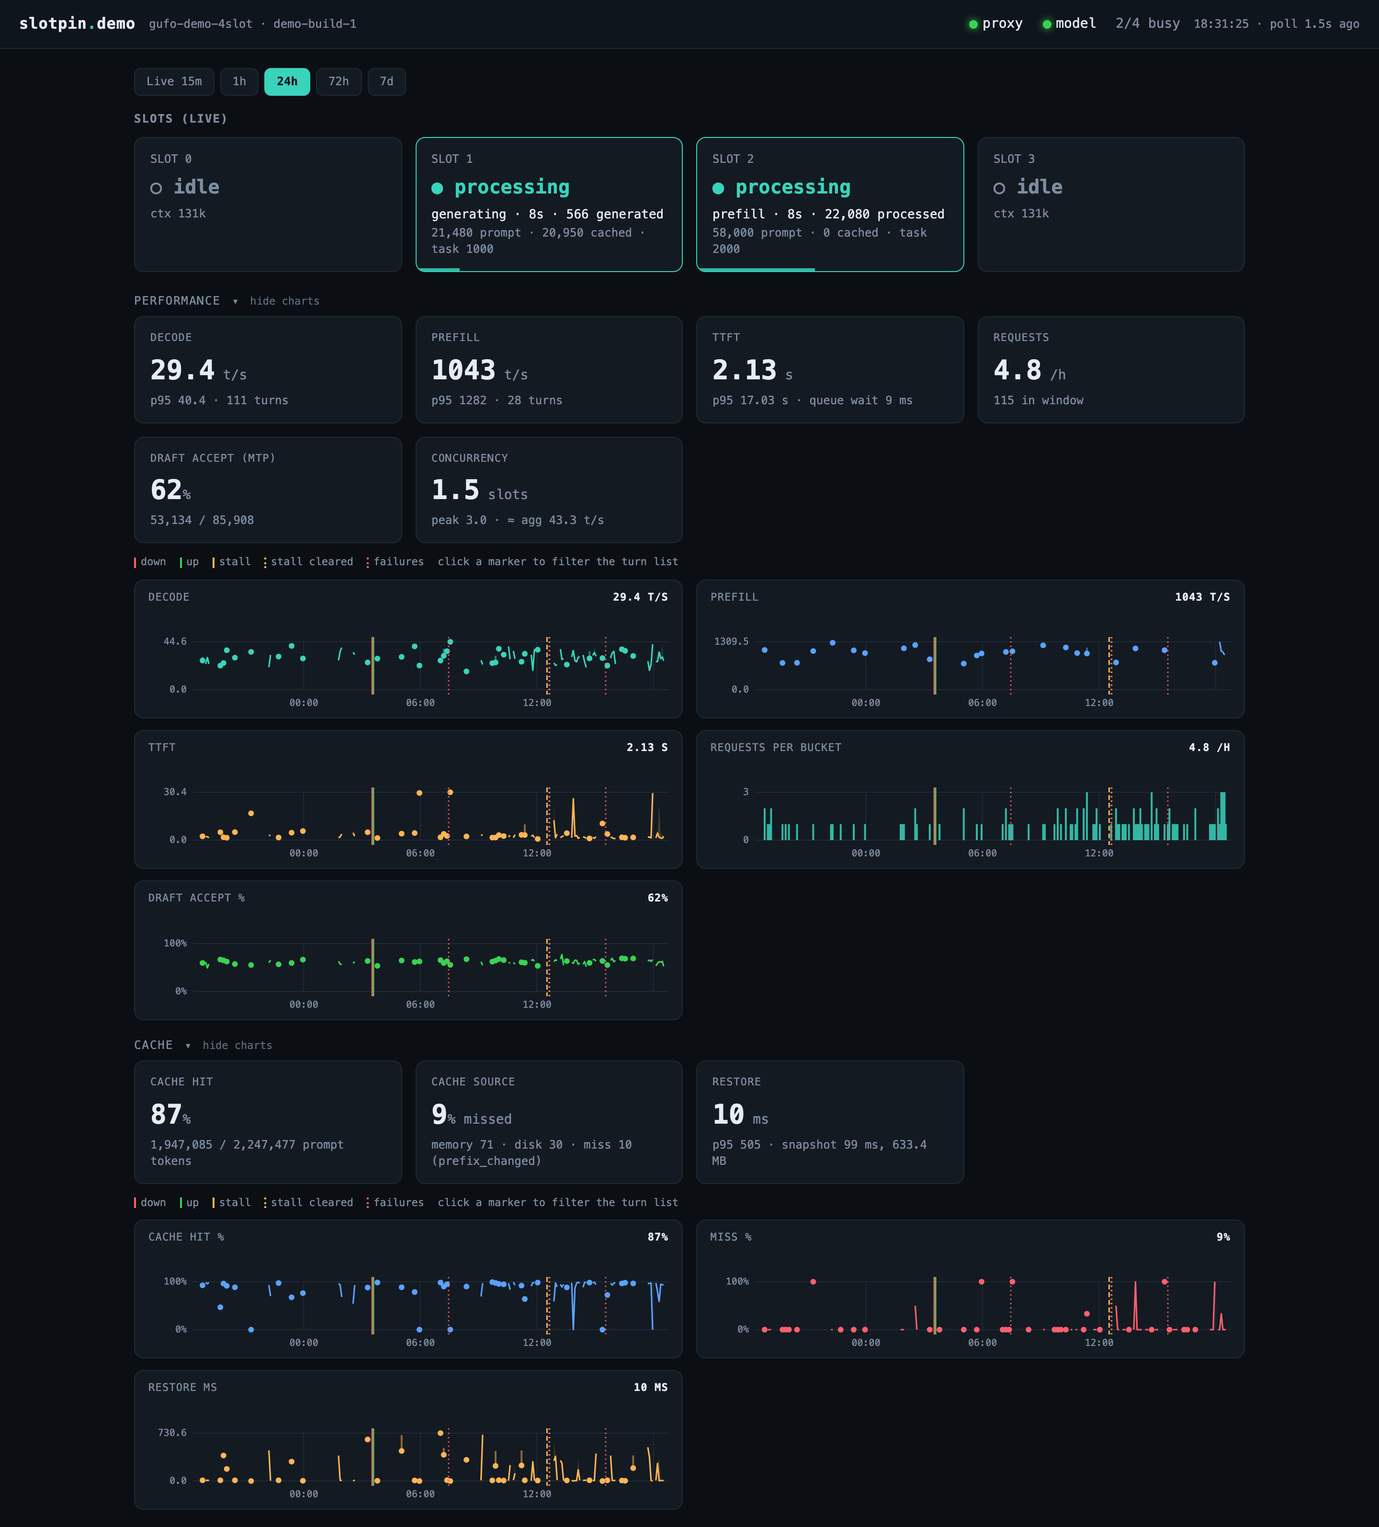
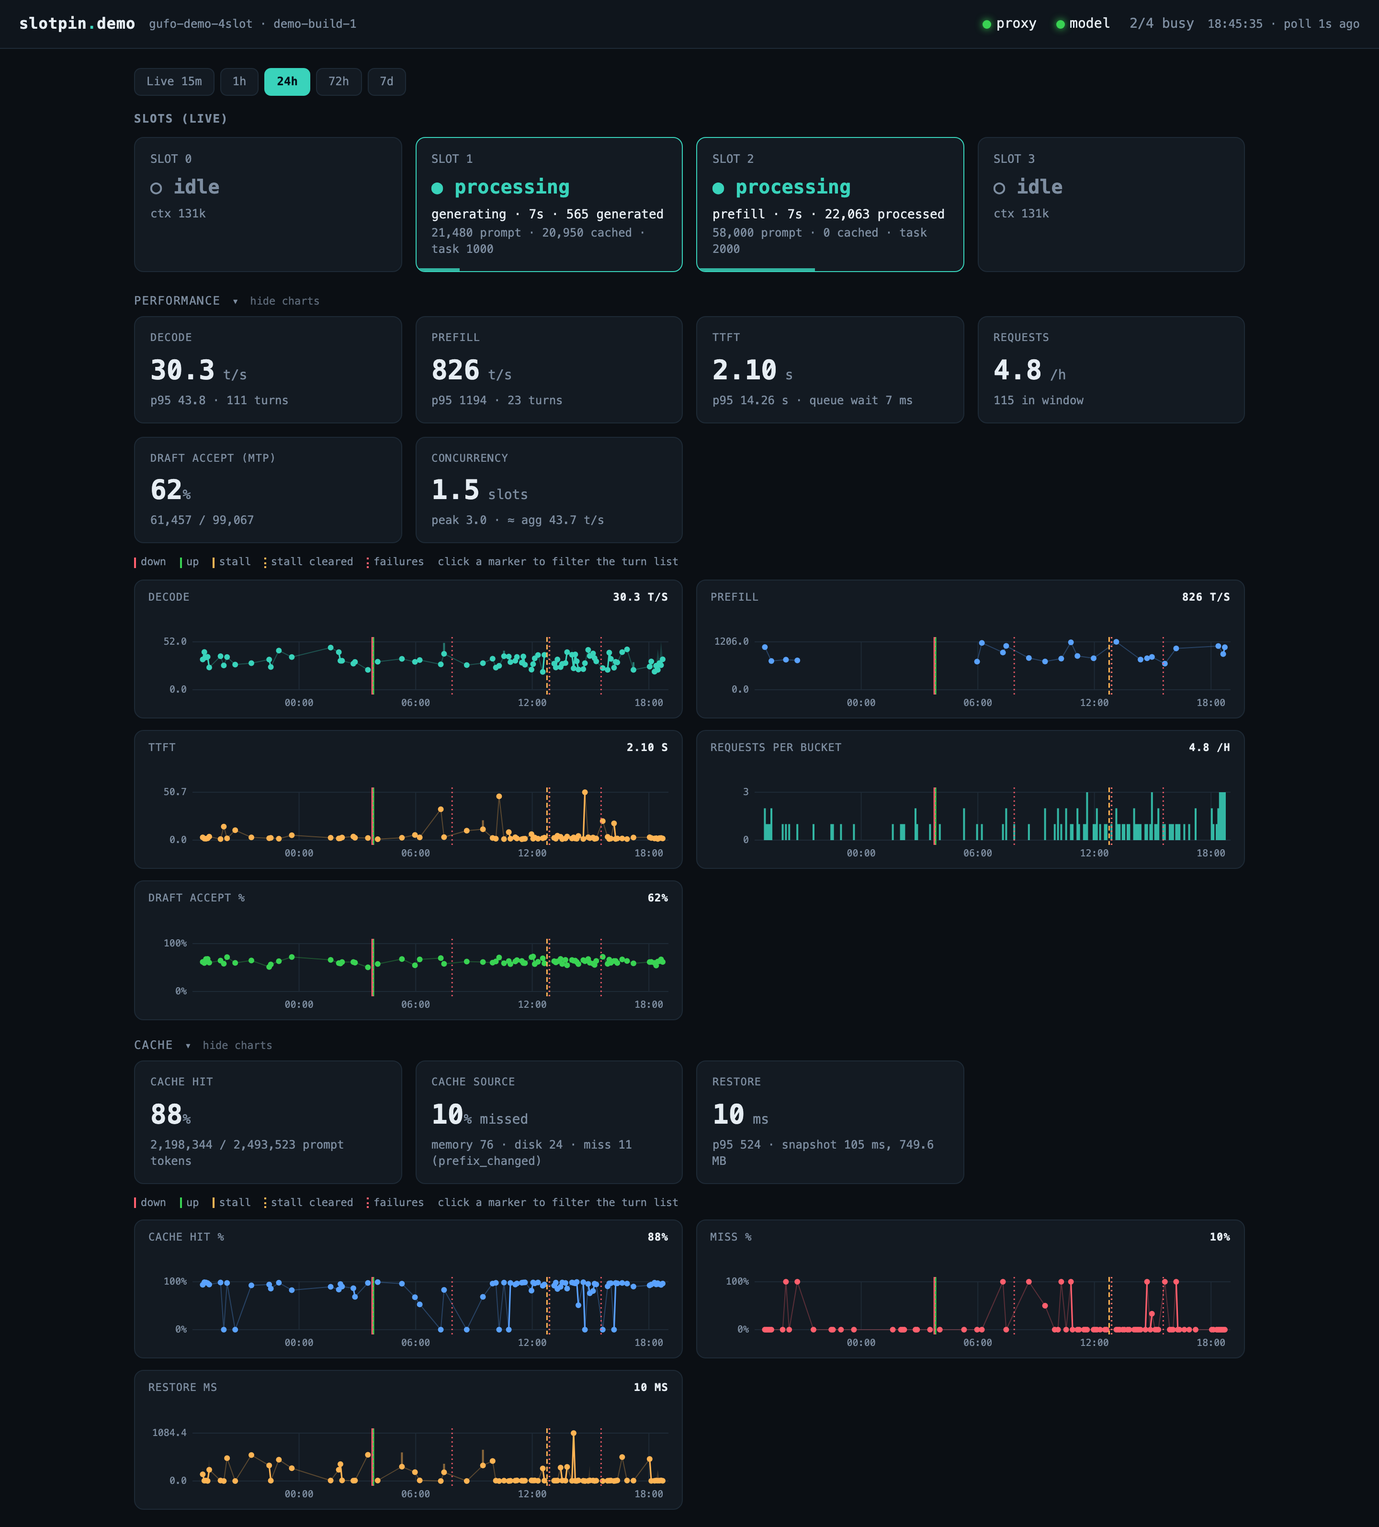
Dashboard render polish: sparse-chart connectors, phone tiles/table, Health marker

diff --git a/src/slotpin/dash.py b/src/slotpin/dash.py
@@ -2329,6 +2329,7 @@ main{padding:18px 20px;max-width:1200px;margin:0 auto}
 .ghead .gname{font-size:12px;text-transform:uppercase;letter-spacing:1px}
 .ghead .gsum{display:none}
 .ghead .gcar{font-size:11px}
+.sum-warn{color:var(--warm)}.sum-crit{color:var(--bad)}
 .ghead .ghint{font-size:11px;color:var(--dim);opacity:.7}
 .ghead:hover .gname,.ghead:hover .ghint{color:var(--fg)}
 .grp:not(.open) .chs{display:none}
@@ -2337,6 +2338,7 @@ main{padding:18px 20px;max-width:1200px;margin:0 auto}
 @media(max-width:640px){
  .ghead{padding:9px 12px;margin:0 0 8px;background:var(--panel);border:1px solid var(--line);border-radius:10px}
  .grp.tog .ghead{cursor:pointer}
+ .ghead{gap:8px}.ghead .gname{letter-spacing:.5px}
  .ghead .gsum{display:inline;color:var(--fg);font-size:12px;flex:1;white-space:nowrap;overflow:hidden;text-overflow:ellipsis}
  .ghead .ghint{display:none}
  .grp.tog:not(.open) .grid,.grp.tog:not(.open) .chs{display:none}
@@ -2348,11 +2350,11 @@ h2{font-size:12px;text-transform:uppercase;letter-spacing:1px;color:var(--dim);m
 .slots{display:grid;grid-template-columns:repeat(4,minmax(0,1fr));gap:14px;margin-bottom:22px}
 .slot{min-width:0;background:var(--panel);border:1px solid var(--line);border-radius:10px;padding:14px 16px;position:relative;overflow:hidden}
 @media(max-width:900px){.slots{grid-template-columns:repeat(2,minmax(0,1fr))}}
-@media(max-width:640px){.slots{gap:10px}.slots:not(.multi){grid-template-columns:minmax(0,1fr)}.slots.multi .slot{padding:10px 12px}}
+@media(max-width:640px){.slots.multi .slot .st{font-size:16px}.slots.multi .slot .ph{font-size:12px}.slots.multi .slot .meta{font-size:11px}.slots{gap:10px}.slots:not(.multi){grid-template-columns:minmax(0,1fr)}.slots.multi .slot{padding:10px 12px}}
 .slot .id{font-size:12px;color:var(--dim)}.slot .st{font-size:20px;font-weight:600;margin:6px 0}
 .slot.busy{border-color:var(--busy)}.slot.busy .st{color:var(--busy)}.slot.idle .st{color:var(--dim)}
 .slot .meta{font-size:12px;color:var(--dim)}
-.slot .ph{font-size:13px;margin:2px 0}
+.slot .ph{font-size:13px;margin:2px 0}.slot .st,.nw{white-space:nowrap}
 .slot.busy.warn{border-color:var(--warm)}.slot.busy.warn .st{color:var(--warm)}.slot.busy.warn .bar{background:var(--warm)}
 .slot.busy.crit{border-color:var(--bad)}.slot.busy.crit .st{color:var(--bad)}.slot.busy.crit .bar{background:var(--bad)}
 .slot .bar{position:absolute;left:0;bottom:0;height:3px;background:var(--busy)}
@@ -2403,6 +2405,18 @@ tr.x-miss td{background:rgba(74,123,216,.14)}
 tr.x-slow td{background:rgba(255,180,84,.12)}
 tr.trow:hover td{filter:brightness(1.25)}
 tr.det td{text-align:left;white-space:normal;background:var(--panel2)}
+@media(max-width:640px){
+ main{padding:14px 12px}header{padding:12px}
+ th,td{padding:5px 4px;font-size:11.5px}
+ th{font-size:9px;letter-spacing:.2px;white-space:normal;line-height:1.1;vertical-align:bottom}
+ th:first-child,td:first-child{padding-left:8px}
+ .ctag{margin-left:3px;padding:0 3px;font-size:9.5px}
+ table{table-layout:fixed;width:720px}
+ td{overflow:hidden;text-overflow:ellipsis}
+ th:nth-child(1){width:120px}th:nth-child(2){width:44px}th:nth-child(3){width:44px}th:nth-child(4){width:44px}th:nth-child(5){width:54px}th:nth-child(6){width:42px}
+ th:nth-child(n+7){width:60px}
+ tr.det td{padding:8px}
+}
 .dgrid{display:grid;grid-template-columns:repeat(auto-fill,minmax(210px,1fr));gap:6px 18px;font-size:12px}
 .dgrid span{color:var(--dim)}
 .ctag{display:inline-block;margin-left:6px;padding:0 5px;border:1px solid currentColor;border-radius:5px;font-size:10.5px;line-height:15px;vertical-align:middle}
@@ -2522,7 +2536,7 @@ function tlRow(r){
   if(failed) status='<span class="err">failed · '+esc(r.fail_reason||'unknown')+(r.upstream_status!=null?(' · '+esc(r.upstream_status)):'')+'</span>';
   else status=esc(r.served||'ok');
   const acc=(r.draft_n>0&&r.draft_n_accepted!=null)?(100*r.draft_n_accepted/r.draft_n).toFixed(0)+'%':'—';
-  let h=`<tr class="trow ${cls}" data-k="${esc(k)}"><td>${esc(fstamp(r.ts))}${tag}</td><td>${esc(r.route||'—')}</td><td>${status}</td><td>${esc(fnum(r.dur_s,1))}</td><td>${esc(r.queue_wait_ms==null?'—':fnum(r.queue_wait_ms,0)+' ms')}</td><td>${esc(fnum(r.ttft_s,2))}</td><td>${esc(fint(r.new_tokens))}</td><td>${esc(fnum(r.cached_pct,0))}</td><td>${esc(fint(r.completion_n))}</td><td>${esc(fnum(r.decode_tps,1))}</td><td>${esc(acc)}</td><td class="mono">${esc(r.stop_reason||'—')}</td></tr>`;
+  let h=`<tr class="trow ${cls}" data-k="${esc(k)}"><td>${esc(fstamp(r.ts))}${tag}</td><td class="rt" title="${esc(r.route||'')}">${esc(r.route||'—')}</td><td title="${esc(failed?('failed · '+(r.fail_reason||'unknown')):(r.served||'ok'))}">${status}</td><td>${esc(fnum(r.dur_s,1))}</td><td>${esc(r.queue_wait_ms==null?'—':fnum(r.queue_wait_ms,0)+' ms')}</td><td>${esc(fnum(r.ttft_s,2))}</td><td>${esc(fint(r.new_tokens))}</td><td>${esc(fnum(r.cached_pct,0))}</td><td>${esc(fint(r.completion_n))}</td><td>${esc(fnum(r.decode_tps,1))}</td><td>${esc(acc)}</td><td class="mono">${esc(r.stop_reason||'—')}</td></tr>`;
   if(tl.exp===k) h+=`<tr class="det"><td colspan="12">${tlDetail(r)}</td></tr>`;
   return h;
 }
@@ -2626,10 +2640,20 @@ function mkChart(o,ctx){
       g+=`<path d="${b.pts.map(p=>{const x=cx(p,b.w);return 'M'+(x-bw/2).toFixed(1)+' '+base+'V'+Y(p.v).toFixed(1)+'h'+bw.toFixed(1)+'V'+base+'Z';}).join('')}" fill="${b.col}" fill-opacity=".85"/>`;}
     o.barw=bw;
   }
+  const downs=ctx.mk.filter(m=>m.kind==='down').map(m=>m.t), maxGap=(tmax-tmin)/6;
   (o.lines||[]).forEach(s=>{
-    const dots=[];let band='',line='',whisk='';
-    runsOf(s.pts,s.w).forEach(run=>{
+    const dots=[];let band='',line='',whisk='',conn='';
+    const runs=runsOf(s.pts,s.w), sparse=s.pts.length<0.4*((tmax-tmin)/s.w);
+    // faint connector across empty buckets, but not over a gap longer than a sixth of the window
+    // or one that contains an upstream `down` event
+    for(let i=1;i<runs.length;i++){
+      const a=runs[i-1][runs[i-1].length-1], b=runs[i][0];
+      if(b.t-a.t>maxGap||downs.some(t=>t>=a.t&&t<=b.t+s.w))continue;
+      conn+='M'+cx(a,s.w).toFixed(1)+' '+Y(a.v).toFixed(1)+'L'+cx(b,s.w).toFixed(1)+' '+Y(b.v).toFixed(1);
+    }
+    runs.forEach(run=>{
       any=true;
+      if(sparse&&run.length>1)run.forEach(p=>dots.push([cx(p,s.w),Y(p.v)]));
       if(run.length<2){const p=run[0],x=cx(p,s.w);dots.push([x,Y(p.v)]);
         if(s.band&&p.v2!=null&&p.v2>p.v)whisk+='M'+x.toFixed(1)+' '+Y(p.v2).toFixed(1)+'V'+Y(p.v).toFixed(1);return;}
       line+=run.map((p,i)=>(i?'L':'M')+cx(p,s.w).toFixed(1)+' '+Y(p.v).toFixed(1)).join('');
@@ -2639,6 +2663,7 @@ function mkChart(o,ctx){
       }
     });
     const op=s.light?'.45':'1';
+    if(conn)g+=`<path class="cn" d="${conn}" stroke="${s.col}" stroke-opacity=".3" stroke-width="1" fill="none"/>`;
     if(band)g+=`<path d="${band}" fill="${s.col}" fill-opacity=".2" stroke="none"/>`;
     if(whisk)g+=`<path d="${whisk}" stroke="${s.col}" stroke-opacity=".5" stroke-width="2" fill="none"/>`;
     if(line)g+=`<path d="${line}" stroke="${s.col}" stroke-opacity="${op}" stroke-width="1.6" fill="none" stroke-linejoin="round"/>`;
@@ -2781,13 +2806,14 @@ async function refresh(){
   $('slots').className='slots'+(arr.length>1?' multi':'');
   $('slots').innerHTML=arr.map(sl=>{const busy=slotsOk&&sl.busy;
     const pct=sl.n_ctx&&sl.n_prompt?Math.min(100,100*sl.n_prompt/sl.n_ctx):0;
-    const stt=!slotsOk?'? unknown':(busy?'● processing':'○ idle');
+    const stt=!slotsOk?'? unknown':(busy?'●\u00a0processing':'○\u00a0idle');
     let sev='';
     if(busy&&stT&&sl.stall_s!=null){ sev=sl.stall_s>=stT?' crit':(sl.stall_s>=stT/2?' warn':''); }
     let ph='';
     if(busy){
       const gen=sl.phase==='generating', tok=gen?sl.n_decoded:sl.n_processed;
-      ph=`<div class="ph">${gen?'generating':'prefill'} · ${esc(fdur(sl.busy_for_s))} · ${tok==null?'—':Number(tok).toLocaleString()} ${gen?'generated':'processed'}${sev?(' · no progress '+esc(fdur(sl.stall_s))):''}</div>`;
+      const nw=x=>`<span class="nw">${x}</span>`;
+      ph=`<div class="ph">${nw(gen?'generating':'prefill')} · ${nw(esc(fdur(sl.busy_for_s)))} · ${nw((tok==null?'—':Number(tok).toLocaleString())+' '+(gen?'generated':'processed'))}${sev?(' · '+nw('no progress '+esc(fdur(sl.stall_s)))):''}</div>`;
     }
     const meta=!slotsOk?'slots query stalled':(busy?((sl.n_prompt||0).toLocaleString()+' prompt · '+(sl.n_cache||0).toLocaleString()+' cached · task '+esc(sl.id_task)):('ctx '+((sl.n_ctx||0)/1000|0)+'k'));
     return `<div class="slot ${busy?'busy':'idle'}${sev}"><div class="id">SLOT ${esc(sl.id)}</div><div class="st">${stt}</div>${ph}<div class="meta">${meta}</div><div class="bar" style="width:${busy?Math.max(8,pct):0}%"></div></div>`;}).join('');
@@ -2885,6 +2911,8 @@ function renderCards(c, st, hi){
   const nvmeCard=(t.nvme_c!=null||hs.max_nvme_temp_c!=null)?card('NVMe temp',num(hs.max_nvme_temp_c,1),'°C','now '+esc(num(t.nvme_c,1))+'°C',tCls(t.nvme_c,hs.max_nvme_temp_c)):'';
 
   const sum=(...xs)=>xs.join(' · ');
+  // phone summary item: warning sign and the card's colour on the item that is amber or red
+  const mark=(cls,txt)=>cls?`<span class="sum-${cls}">⚠ ${txt}</span>`:txt;
   // chart titles carry the card's window value (same measure as the card)
   const wv=(x,d,u)=>(typeof x==='number'&&isFinite(x))?x.toFixed(d)+u:'—';
   const ch=chartBlocks(hi,{fail:F.count==null?'—':String(F.count),mem:wv(gb(minFree),1,' GB'),
@@ -2894,11 +2922,11 @@ function renderCards(c, st, hi){
     gpu:wv(hs.max_gpu_temp_c,1,'°C'),nvme:wv(hs.max_nvme_temp_c,1,'°C')},st);
   $('cards').innerHTML=
     grp('perf','Performance',[decCard,preCard,ttCard,rqCard,drCard,ccCard].filter(Boolean),
-        sum('decode '+esc(num(D.p50,1))+' t/s','TTFT '+esc(num(T.p50,2))+' s',''+esc(num(R.per_hour,1))+' /h'),ch.perf)+
+        sum(esc(num(D.p50,1))+' t/s','TTFT '+esc(num(T.p50,1))+' s',esc(num(R.per_hour,1))+'/h'),ch.perf)+
     grp('cache','Cache',[chCard,csCard,rsCard],
-        sum('hit '+esc(num(CH.pct,0))+'%',(CS.kind==='llamacpp'?'cold ':'missed ')+esc(num(CS.miss_pct,0))+'%','restore '+esc(num(RS.p50,0))+' ms'),ch.cache)+
+        sum('hit '+esc(num(CH.pct,0))+'%',(CS.kind==='llamacpp'?'cold ':'miss ')+esc(num(CS.miss_pct,0))+'%',esc(num(RS.p50,0))+' ms'),ch.cache)+
     grp('health','Health',[upCard,lcCard,fCard,memCard],
-        sum((up==='up'&&!lcCls&&!fCls&&!mCls?'':'⚠ ')+esc(up),(F.count==null?'—':String(F.count))+' failed',esc(num(gb(minFree),1))+' GB free'),ch.health)+
+        sum(mark(up!=='up'?'crit':lcCls,(up!=='up'||!lcCls)?esc(up):'stalled'),mark(fCls,(F.count==null?'—':String(F.count))+' failed'),mark(mCls,esc(num(gb(minFree),1))+' GB free')),ch.health)+
     grp('system','System',[gttCard,powCard,whCard,cpuCard,gpuCard,nvmeCard].filter(Boolean),
         sum('GPU mem '+esc(num(gb(hs.max_gtt_used_mb),1))+' GB',esc(num(hs.avg_power_w,0))+' W','CPU '+esc(num(hs.max_cpu_temp_c,0))+'°C'),ch.system);
 }

diff --git a/tests/test_dash_page.py b/tests/test_dash_page.py
@@ -370,7 +370,8 @@ def test_chart_isolated_bucket_is_a_dot(tmp_path):
     for cid in ("decode", "ttft", "cachehit", "miss", "draft"):
         assert "<circle" in res["charts"][cid], cid
     # the same bucket with a neighbour is a line (and no dot)
-    res2 = _run_charts(tmp_path, 900, 60, 60, [only, _rq(NOW_P - 240)], [], [])
+    dense = [_rq(NOW_P - 60 * k) for k in range(2, 12)]  # 10 of 15 buckets: dense, plain line
+    res2 = _run_charts(tmp_path, 900, 60, 60, dense, [], [])
     assert "<circle" not in res2["charts"]["decode"]
     assert 'stroke-width="1.6"' in res2["charts"]["decode"]
     # a lone bucket in a stacked-area / line chart is a dot too
@@ -521,3 +522,129 @@ def test_crosshair_same_time_on_charts_in_both_columns(tmp_path):
     assert "no data" not in xs["decode"]["rd"] and "no data" not in xs["ttft"]["rd"]
     assert cols["decode"] == 0 and cols["prefill"] == 1 and cols["ttft"] == 0
     assert res["off"] is True  # leaving the charts clears every crosshair and readout
+
+
+def _decode_svg(res):
+    html = res["charts"]["decode"]
+    return html[html.index("<svg") : html.index("</svg>")]
+
+
+@pytest.mark.skipif(shutil.which("node") is None, reason="node not installed")
+def test_sparse_series_has_faint_connector_and_dots_but_not_over_long_gap(tmp_path):
+    win, rw = 86400, 300
+    t0 = NOW_P - win
+    # runs of two adjacent buckets; gaps of 1 h between them, then one 8 h gap (> window / 6)
+    ts = [t0 + 3600, t0 + 3900, t0 + 7500, t0 + 7800, t0 + 11400, t0 + 11700, t0 + 11700 + 8 * 3600]
+    res = _run_charts(tmp_path, win, rw, rw, [_rq(t) for t in ts], [], [])
+    svg = _decode_svg(res)
+    conn = re.search(r'<path class="cn" d="([^"]+)"', svg)
+    assert conn and 'stroke-opacity=".3"' in svg
+    assert conn.group(1).count("M") == 2  # two bridged gaps; the 8 h gap is left open
+    assert svg.count("<circle") == len(ts)  # a dot on every populated bucket
+    assert 'stroke-width="1.6"' in svg  # solid segments remain where buckets are adjacent
+    assert 'fill-opacity=".2"' in svg  # p95 band stays
+    # an upstream `down` event inside a short gap stops the bridge as well
+    ev = [{"t": t0 + 5000, "kind": "down"}]
+    res2 = _run_charts(tmp_path, win, rw, rw, [_rq(t) for t in ts], [], ev)
+    conn2 = re.search(r'<path class="cn" d="([^"]+)"', _decode_svg(res2))
+    assert conn2.group(1).count("M") == 1
+
+
+@pytest.mark.skipif(shutil.which("node") is None, reason="node not installed")
+def test_dense_series_has_no_per_point_dots_or_connector(tmp_path):
+    win, rw = 86400, 300
+    t0 = NOW_P - win
+    rs = [_rq(t0 + i * rw) for i in range(0, 288, 1) if i % 10]  # 90 % populated
+    svg = _decode_svg(_run_charts(tmp_path, win, rw, rw, rs, [], []))
+    assert "<circle" not in svg
+    assert 'stroke-width="1.6"' in svg
+
+
+@pytest.mark.skipif(shutil.which("node") is None, reason="node not installed")
+def test_sparse_connector_node_count_bounded(tmp_path):
+    win, rw = 86400, 300
+    t0 = NOW_P - win
+    rs = [_rq(t0 + i * rw) for i in range(0, 288, 3)]  # a third populated, many dots
+    res = _run_charts(tmp_path, win, rw, rw, rs, [], [])
+    for cid in ("decode", "ttft", "cachehit"):
+        html = res["charts"][cid]
+        svg = html[html.index("<svg") : html.index("</svg>")]
+        assert len(re.findall(r"<(?:path|circle|line|rect|text|title)\b", svg)) < 150, cid
+        assert svg.count('class="cn"') == 1
+
+
+def _cards_with(tmp_path, state_patch, hist_cards, summary=None, sm=None):
+    """Render once with given card payloads; return the cards html."""
+    import json as _json
+
+    res = _run_charts(tmp_path, 900, 60, 60, [], [], [])
+    assert res  # harness sanity
+    p = tmp_path / "p.json"
+    payload = _json.loads(p.read_text())
+    payload["state"]["system"].update(state_patch.get("system", {}))
+    payload["state"]["health_v2"].update(state_patch.get("health_v2", {}))
+    payload["state"]["cards"] = hist_cards
+    payload["history"]["cards"] = hist_cards
+    payload["history"]["summary"] = summary or {}
+    p.write_text(_json.dumps(payload))
+    r = subprocess.run(
+        ["node", str(tmp_path / "h.js"), str(tmp_path / "page.js"), str(p)],
+        capture_output=True, text=True, timeout=60,
+    )
+    assert r.returncode == 0, r.stderr
+    return _json.loads(r.stdout)["cards"]
+
+
+def _gsum(cards, g):
+    m = re.search(rf'data-g="{g}".*?<span class="gsum">(.*?)</span><span class="gcar"', cards, re.S)
+    return m.group(1)
+
+
+@pytest.mark.skipif(shutil.which("node") is None, reason="node not installed")
+def test_health_summary_marks_only_the_amber_or_red_items(tmp_path):
+    fine = {"failures": {"count": 0, "pct": 0}}
+    c = _cards_with(tmp_path, {"system": {"mem_free_mb": 30000}}, fine, {"min_mem_free_mb": 30000})
+    assert _gsum(c, "health") == "up · 0 failed · 29.3 GB free"
+    amber = {"failures": {"count": 4, "pct": 2.0}}
+    c = _cards_with(tmp_path, {"system": {"mem_free_mb": 30000}}, amber, {"min_mem_free_mb": 30000})
+    assert _gsum(c, "health") == 'up · <span class="sum-warn">⚠ 4 failed</span> · 29.3 GB free'
+    c = _cards_with(tmp_path, {"system": {"mem_free_mb": 1200}}, fine, {"min_mem_free_mb": 1200})
+    assert _gsum(c, "health") == 'up · 0 failed · <span class="sum-crit">⚠ 1.2 GB free</span>'
+    c = _cards_with(
+        tmp_path,
+        {"system": {"mem_free_mb": 30000}, "health_v2": {"last_completion_age_s": 400, "busy_slots": 1}},
+        amber,
+        {"min_mem_free_mb": 30000},
+    )
+    assert _gsum(c, "health").startswith('<span class="sum-crit">⚠ stalled</span> · ')
+
+
+@pytest.mark.skipif(shutil.which("node") is None, reason="node not installed")
+def test_group_summaries_are_short(tmp_path):
+    cards = {
+        "decode": {"p50": 31.44},
+        "ttft": {"p50": 2.0},
+        "requests": {"per_hour": 5.0},
+        "cache_hit": {"pct": 92.0},
+        "cache_source": {"miss_pct": 4.0},
+        "restore": {"p50": 11.0},
+    }
+    c = _cards_with(tmp_path, {}, cards)
+    assert _gsum(c, "perf") == "31.4 t/s · TTFT 2.0 s · 5.0/h"
+    assert _gsum(c, "cache") == "hit 92% · miss 4% · 11 ms"
+
+
+def test_phone_css_keeps_status_together_and_table_compact():
+    html = dash.render_page()
+    js = _script(html)
+    assert re.search(r"\.slot \.st,\.nw\{white-space:nowrap\}", html)
+    assert "●\\u00a0processing" in js  # no breakable space between dot and word
+    assert "@media(max-width:640px){.slots.multi .slot .st{font-size:16px}" in html
+    narrow = html[html.index("@media(max-width:640px){\n main{"):]
+    narrow = narrow[: narrow.index("\n}")]
+    assert "table-layout:fixed" in narrow and "th:nth-child(1){width:" in narrow
+    widths = [int(w) for w in re.findall(r"th:nth-child\([1-6]\)\{width:(\d+)px", narrow)]
+    assert len(widths) == 6 and sum(widths) <= 350  # time..TTFT fit a 390 px phone
+    assert "text-overflow:ellipsis" in narrow
+    assert 'class="rt" title="${esc(r.route' in js  # full route kept, escaped, in the title
+    assert "ctag" in narrow  # tag stays beside the time, just tighter

diff --git a/tests/test_dash_review.py b/tests/test_dash_review.py
@@ -257,7 +257,7 @@ def test_memory_card_colours_from_current_values_except_on_short_windows(tmp_pat
     assert "⚠" not in res["w86400"]
     assert _card(res["w900"], "Memory")["cls"] == "crit"
     assert _card(res["w3600"], "Memory")["cls"] == "crit"
-    assert "⚠ up" in res["w900"]
+    assert "⚠ 0.6 GB free" in res["w900"]
     assert "0.6" in _card(res["w86400"], "Memory")["big"]  # headline stays the window minimum
     low = _state(system={"mem_total_mb": 131072, "mem_free_mb": 1024, "swap_used_mb": 0})
     for w in (86400, 259200, 604800):

diff --git a/docs/dashboard.md b/docs/dashboard.md
@@ -224,8 +224,14 @@ requests.
 Each group's header toggles it. At desktop widths a collapsed group shows its
 cards only and an open one adds its charts; groups start collapsed, so the
 default view is the cards. Below 640 px all four groups collapse to a one-line header (group name plus
-two or three headline numbers) that expands on tap. The Health header starts
-with a warning sign when any of its cards is amber or red. A box with several
+two or three headline numbers) that expands on tap. In the Health
+summary the warning sign sits on the item that is amber or red (`up · ⚠ 4 failed ·
+26.5 GB free`, `⚠ stalled · …`, `… · ⚠ 1.2 GB free`), coloured like its card. The
+summaries are short enough not to truncate at 390 px (`31.4 t/s · TTFT 2.0 s · 5.0/h`,
+`hit 92% · miss 4% · 11 ms`). On a phone the status dot and word never split
+across lines, and the recent-requests table uses tighter cells and fixed column
+widths so time (with the conversation tag), route, status, duration, queue wait
+and TTFT fit without scrolling; the other columns scroll inside the table. A box with several
 slots shows its slot tiles two per row. The open/closed state is kept for the page session
 (`sessionStorage`).
 
@@ -321,8 +327,14 @@ a sensor exists). The number beside a chart title is the card's window value
 - **One time axis.** Every chart uses the selected window as its x range, with
   ticks at local times, so a point lines up vertically across all charts.
 - **Gaps and dots.** Buckets with no data are gaps. Consecutive buckets are
-  joined; a bucket with no neighbour is drawn as a dot (a `<circle>`, or one
-  round-capped path when there are more than 40), so sparse traffic still shows.
+  joined by the solid line (and p95 band); a bucket with no neighbour is drawn as a
+  dot (a `<circle>`, or one round-capped path when there are more than 40), so sparse
+  traffic still shows. When fewer than 40 % of the window's buckets hold data, every
+  populated bucket gets a dot, and one faint thin line (same hue, 30 % opacity, a single
+  path) connects consecutive points across the empty buckets so the series reads as a
+  trend. A gap longer than a sixth of the window, or one containing an upstream `down`
+  event, is not bridged, so an outage still shows as a gap. Dense series keep the plain
+  line without per-point dots. Bar charts are unchanged.
 - **Crosshair.** Moving over any chart draws a vertical line on every chart (in
   both columns; its position is computed from the time under the pointer, not
   from the page x) and
